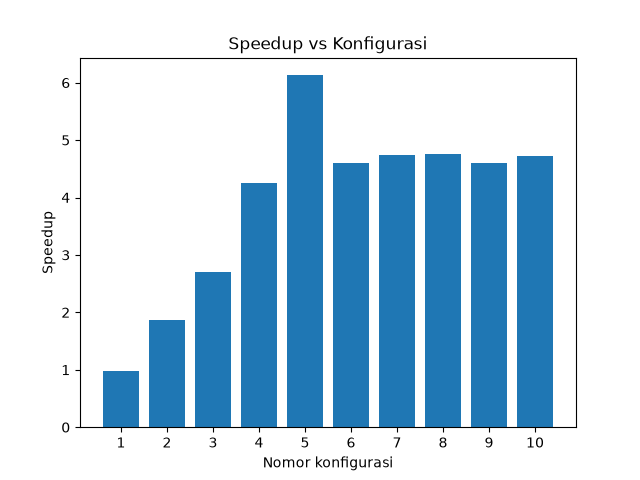
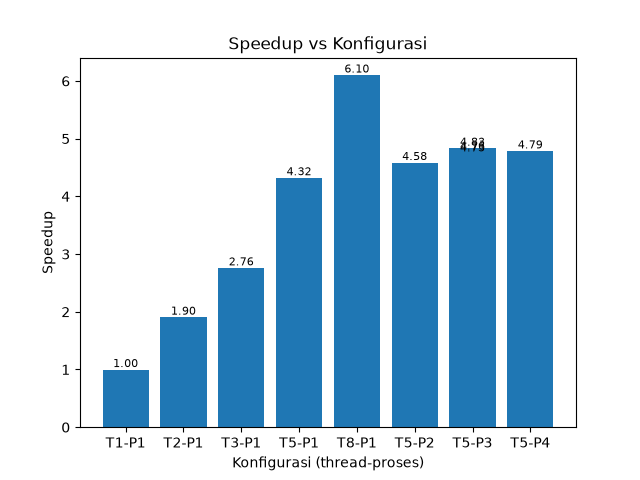
feat: hasil rerun pasca-revisi, grafik, dan sinkron docs tahap revisi 4

diff --git a/STATUS.md b/STATUS.md
@@ -10,6 +10,10 @@
 - [x] Tahap 7: `plot_results.py` + 3 PNG di `results/figures/`.
 - [x] Tahap 8: `docs/architecture.md`, `docs/hardware.md`.
 - [x] Tahap 9: `README.md` final.
+- [x] Revisi 1: efisiensi utama = speedup/(thread+proses); rumus lama jadi kolom `efisiensi_per_proses_pct`.
+- [x] Revisi 2: response time fallback kumulatif (utama+mirror) via `proses_satu` bersama; tes baru lulus (5 tes total).
+- [x] Revisi 3: grafik sumbu bulat, y dari 0, label T-P + nilai speedup per batang.
+- [x] Revisi 4: rerun penuh nyata pasca-revisi (10 cfg + 3 baseline, 3x median, tanpa gagal) -> `results.csv` baru + 3 PNG + README sinkron.
 
 ## Berjalan
 - (kosong)
@@ -18,9 +22,8 @@
 - (kosong — semua tahap selesai)
 
 ## Masalah
-- Kalibrasi CPU berisik di mesin uji: run dingin pertama ~2x lebih lambat dari run hangat. Nilai final `CPU_WORK=4000` memberi ~11 dtk steady-state (target 10-20 dtk).
-- Total run didominasi fase I/O (~42 dtk dari ~47 dtk), sehingga skala proses hanya memangkas t_cpu. Dicatat apa adanya.
-- Efisiensi kolom utama (speedup/proses) >100% untuk konfigurasi 1 proses — artefak rumus soal, kolom `efisiensi_total_worker_pct` sebagai pembanding intuitif.
+- Rerun revisi 4: tidak ada run yang gagal (39/39 rep sukses).
+- Total run masih didominasi fase I/O (~42 dtk dari ~45 dtk cfg default).
 
 ## Keputusan
 - `results/raw/*.json` di-ignore via `.gitignore` (mentah per-run tidak wajib di-commit).
@@ -28,3 +31,5 @@
 - `.gitignore` mengecualikan `AGENT.md` (tidak di-commit ke repo).
 - Bootstrap memakai seed per-resample agar hasil paralel identik persis dengan sekuensial (uji kesetaraan exact, bukan aproksimasi).
 - Default `python -m src.main` memakai `--mode compare` agar speedup yang tampil selalu riil.
+- Revisi efisiensi menyimpang dari contoh rumus soal (AGENT.md 5.6) secara sadar; dijelaskan di `docs/architecture.md`.
+- Response time terukur sudah dikali TIME_SCALE (0.25): "waktu simulasi terskala".

diff --git a/README.md b/README.md
@@ -32,7 +32,7 @@ Opsi CLI: `--threads`, `--processes`, `--data`, `--mirrors`,
 ```
 Hybrid Project by: Muhammad Fadhlan Aminullah (247006111151)
 Threads: 5 | Processes: 3 | Data: 1510
-Total Time: 46.57 s | Throughput: 32.4 req/s | Speedup: 4.7 | Efficiency: 155.4%
+Total Time: 45.33 s | Throughput: 33.3 req/s | Speedup: 4.7 | Efficiency: 59.2%
 --- Contoh hasil analisis ---
 Success rate: 99.4% | Fallback ke mirror: 24.8%
 Response time (ms): mean=... p95=... p99=... | Outlier: ...
@@ -41,6 +41,6 @@ Status: 200=... 502=... 504=...
 
 ## Ringkasan hasil (run nyata, `results/results.csv`)
 
-- Skala thread (1510 data): 224 dtk (1) -> 36 dtk (8 thread), speedup 6,0.
-- Skala proses: t_cpu 8,9 -> 3,8 dtk (1 ke 4 proses); total didominasi I/O.
+- Skala thread (1510 data): 215,4 dtk (1) -> 35,2 dtk (8 thread), speedup 6,1.
+- Skala proses: t_cpu 7,8 -> 3,0 dtk (1 ke 4 proses); total didominasi I/O (~42 dtk).
 - Success rate 99,4%, fallback mirror ~24,8%. Detail: `docs/architecture.md`.

diff --git a/docs/architecture.md b/docs/architecture.md
@@ -36,10 +36,10 @@ waktu percobaan utama + mirror.
 
 ## Hasil run nyata (1510 data, seed 247006111151)
 
-Skala thread (1 proses): 1 thread 224,4 dtk, 2 thread 120,5 dtk,
-3 thread 83,5 dtk, 5 thread 50,8 dtk, 8 thread 36,2 dtk (speedup maks 6,0).
-Skala proses (5 thread): 1 proses 50,8 dtk (t_cpu 8,9), 2 proses 49,6 dtk
-(7,4), 3 proses 46,6 dtk (4,6), 4 proses 45,8 dtk (3,8). Total didominasi
+Skala thread (1 proses): 1 thread 215,4 dtk, 2 thread 112,7 dtk,
+3 thread 77,8 dtk, 5 thread 49,7 dtk, 8 thread 35,2 dtk (speedup maks 6,1).
+Skala proses (5 thread): 1 proses 49,7 dtk (t_cpu 7,8), 2 proses 46,8 dtk
+(4,9), 3 proses 45,3 dtk (3,5), 4 proses 44,8 dtk (3,0). Total didominasi
 fase I/O (~42 dtk), sehingga tambah proses hanya memangkas t_cpu.
 Success rate 99,4%, fallback ke mirror ~24,8%.
 
